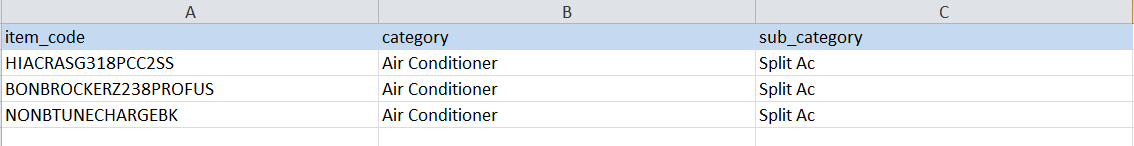
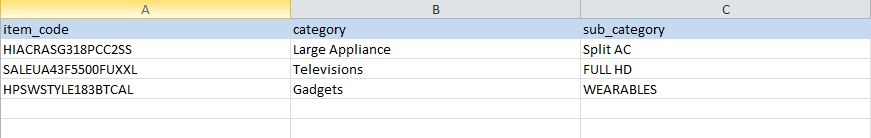
bulk_upload_change_and_update_data_withot_image

Changed region(s): [[0.0, 0.0, 1.0, 1.0]]

diff --git a/app/admin/components/product/bulk-upload.js b/app/admin/components/product/bulk-upload.js
@@ -16,6 +16,7 @@ export default function BulkUploadPage() {
   const [activeUploadType, setActiveUploadType] = useState(null);
   const [isFilterUploadLoading, setIsFilterUploadLoading] = useState(false);
   const [isBulkUploadLoading, setIsBulkUploadLoading] = useState(false);
+  const [isParticularDataBulkUploadLoading, setIsParticularDataBulkUploadLoading] = useState(false);
   const [isFilterGroupUploadLoading, setIsFilterGroupUploadLoading] = useState(false);
   const overviewFormRef = useRef(null);
   const filterValueFormRef = useRef(null);
@@ -37,6 +38,7 @@ export default function BulkUploadPage() {
 
   const notifiedRef = useRef(false);
 const fileInputRef = useRef(null);
+const fileBulkParticularInputRef = useRef(null);
   const showToast = (type, message) => {
     if (notifiedRef.current) return;
     notifiedRef.current = true;
@@ -62,6 +64,7 @@ const fileInputRef = useRef(null);
     setActiveUploadType(null);
     setIsFilterUploadLoading(false);
     setIsBulkUploadLoading(false);
+    setIsParticularDataBulkUploadLoading(false);
     setIsFilterGroupUploadLoading(false);
     setMessage("");
 
@@ -224,6 +227,55 @@ const fileInputRef = useRef(null);
   }
 };
 
+
+    //BULK UPDATION...
+  const handleBulkParticularDetailsSubcatSubmit = async (e) => {
+  e.preventDefault();
+
+  if (!excelFile) {
+    showToast("error", "Please upload a file");
+    return;
+  }
+
+  const formData = new FormData();
+  formData.append("file", excelFile); // ✅ MUST BE "file"
+
+  setIsParticularDataBulkUploadLoading(true);
+
+  try {
+    const res = await fetch("/api/categories/particularDataBulkupload", {
+      method: "POST",
+      body: formData,
+    });
+
+    const data = await res.json();
+
+    if (res.ok) {
+      showToast(
+        "success",
+        `Updated: ${data.updated}, Skipped: ${data.skipped}`
+      );
+
+      // ✅ RESET STATE
+        setExcelFile(null);
+
+        // ✅ RESET INPUT UI (VERY IMPORTANT)
+        if (fileBulkParticularInputRef.current) {
+          fileBulkParticularInputRef.current.value = "";
+        }
+
+    } else {
+      showToast("error", data.message || "Upload failed");
+    }
+
+    setExcelFile(null);
+  } catch (err) {
+    console.error(err);
+    showToast("error", "Upload failed");
+  } finally {
+    setIsParticularDataBulkUploadLoading(false);
+  }
+};
   const validateFile = (file, allowedExtensions) => {
     if (!file) return false;
     const fileName = file.name.toLowerCase();
@@ -343,6 +395,15 @@ const fileInputRef = useRef(null);
     const link = document.createElement("a");
     link.href = `/uploads/files/sample_category_Bulk_upload.xlsx?t=${Date.now()}`;
     link.download = "item_code_category_bulk_upload.xlsx";
+    document.body.appendChild(link);
+    link.click();
+    document.body.removeChild(link);
+  };
+
+  const handleParticularDataBulkUploadDownload = () => {
+    const link = document.createElement("a");
+    link.href = `/uploads/files/sample_item_code_particular_data.xlsx?t=${Date.now()}`;
+    link.download = "item_particular_bulk_upload_part_one_without_image.xlsx";
     document.body.appendChild(link);
     link.click();
     document.body.removeChild(link);
@@ -1046,6 +1107,10 @@ const fileInputRef = useRef(null);
 
     { id: "section-category-filter-upload-item-category-subcategory", label: "Item Code Category Bulk Upload", image: "/uploads/files/Category_bulk_upload_bulk_category_image_New.png" },
 
+    { id: "item-category-particular-product-bulk-upload", label: "Item Particular Bulk Upload part one (without image)", image: "/uploads/files/item_category_particular_bulk_upload.png" },
+
+    // { id: "item_code_image_bulk_upload", label: "Item Code Image Bulk Upload", image: "/uploads/files/item_code_image_bulk_upload.png" },
+
     { id: "section-new-category-upload", label: "New Category Upload", image: "/uploads/files/New_Category_bulk_upload_seventh_image.png" },
     // { id: "section-product-categories-upload", label: "Update Product Categories",     image: "/uploads/files/Product_updating_category_eighth_image.png" },
     { id: "section-product-brands-upload", label: "Update Product Brands", image: "/uploads/files/Product_Brand_update_nineth_image.png" },
@@ -1519,6 +1584,66 @@ const fileInputRef = useRef(null);
                 </div>
               </form>
             )}
+
+            {/* Section 13: Category Filter Upload Item code With Particular Details */}
+            {selectedSection === "item-category-particular-product-bulk-upload" && (
+              <form id="item-category-particular-product-bulk-upload" onSubmit={handleUpload} className="bg-white rounded-xl shadow-lg overflow-hidden p-6 space-y-8">
+                <div className="border border-gray-200 rounded-lg p-6 hover:border-blue-500 transition-colors">
+                  <div className="mb-4">
+                    <h2 className="text-md font-semibold text-blue-600 mb-6 border-b pb-2">
+                      Item Particular Bulk Upload part one (without image)
+                    </h2>
+                    <h3 className="text-lg font-semibold text-gray-900 flex items-center gap-2">
+                      <svg className="w-5 h-5 text-blue-500" fill="none" stroke="currentColor" viewBox="0 0 24 24">
+                        <path strokeLinecap="round" strokeLinejoin="round" strokeWidth={2} d="M9 12h6m-6 4h6m2 5H7a2 2 0 01-2-2V5a2 2 0 012-2h5.586a1 1 0 01.707.293l5.414 5.414a1 1 0 01.293.707V19a2 2 0 01-2 2z" />
+                      </svg>
+                      Excel/CSV File
+                    </h3>
+                    <p className="text-sm text-gray-500 mt-1">Upload your Particular Bulk Upload Part One Data</p>
+                  </div>
+                  <div className="space-y-4">
+                   <input
+                      type="file"
+                      accept=".xlsx,.csv"
+                      ref={fileBulkParticularInputRef}
+                      onChange={(e) => setExcelFile(e.target.files?.[0] || null)}
+                      className="block w-full text-sm text-gray-500 file:mr-4 file:py-2 file:px-4 file:rounded-lg file:border-0 file:text-sm file:font-semibold file:bg-blue-50 file:text-blue-700 hover:file:bg-red-100"
+                      required
+                    />
+                    <button
+                      type="button"
+                      onClick={handleParticularDataBulkUploadDownload}
+                      className="inline-flex items-center text-sm text-blue-600 hover:text-blue-800 transition-colors"
+                    >
+                      <svg className="w-4 h-4 mr-2" fill="none" stroke="currentColor" viewBox="0 0 24 24">
+                        <path strokeLinecap="round" strokeLinejoin="round" strokeWidth={2} d="M4 16v1a3 3 0 003 3h10a3 3 0 003-3v-1m-4-4l-4 4m0 0l-4-4m4 4V4" />
+                      </svg>
+                      Download Sample Format
+                    </button>
+                  </div>
+                  <div className="flex mt-5 justify-between">
+                    <button
+                      onClick={handleBulkParticularDetailsSubcatSubmit}
+                        disabled={isParticularDataBulkUploadLoading}
+                      className="px-6 py-2.5 bg-blue-600 text-white font-medium rounded-lg hover:bg-blue-700 focus:outline-none disabled:opacity-50 transition-colors flex items-center"
+                    >
+                      {isParticularDataBulkUploadLoading ? (
+                        <>
+                          <svg className="animate-spin -ml-1 mr-3 h-5 w-5 text-white" xmlns="http://www.w3.org/2000/svg" fill="none" viewBox="0 0 24 24">
+                            <circle className="opacity-25" cx="12" cy="12" r="10" stroke="currentColor" strokeWidth="4"></circle>
+                            <path className="opacity-75" fill="currentColor" d="M4 12a8 8 0 018-8V0C5.373 0 0 5.373 0 12h4zm2 5.291A7.962 7.962 0 014 12H0c0 3.042 1.135 5.824 3 7.938l3-2.647z"></path>
+                          </svg>
+                          Uploading...
+                        </>
+                      ) : (
+                        'Particular Bulk Upload One'
+                      )}
+                    </button>
+                  </div>
+                </div>
+              </form>
+            )}
+
 
             {/* Section 7: New Category Upload */}
             {selectedSection === "section-new-category-upload" && (

diff --git a/app/api/categories/particularDataBulkupload/route.js b/app/api/categories/particularDataBulkupload/route.js
@@ -1,0 +1,186 @@
+import { NextResponse } from "next/server";
+import dbConnect from "@/lib/db";
+import * as XLSX from "xlsx";
+
+import Product from "@/models/product";
+import Category from "@/models/ecom_category_info";
+import Brand from "@/models/ecom_brand_info";
+
+export async function POST(req) {
+  try {
+    await dbConnect();
+
+    const formData = await req.formData();
+    const file = formData.get("file");
+
+    if (!file) {
+      return NextResponse.json(
+        { success: false, message: "No file uploaded" },
+        { status: 400 }
+      );
+    }
+
+    const buffer = Buffer.from(await file.arrayBuffer());
+    const workbook = XLSX.read(buffer, { type: "buffer" });
+    const sheet = workbook.Sheets[workbook.SheetNames[0]];
+    const rows = XLSX.utils.sheet_to_json(sheet);
+
+    let updated = 0;
+    let skipped = 0;
+
+    /* ---------- HELPERS ---------- */
+    const normalize = (val) =>
+      val?.toString().trim().replace(/\s+/g, " ");
+
+    const escapeRegex = (str) =>
+      str.replace(/[.*+?^${}()|[\]\\]/g, "\\$&");
+
+    /* ---------- LOOP ---------- */
+    for (const row of rows) {
+      const itemCode = normalize(
+        row["Item No."] ||
+        row["Item No"] ||
+        row["ITEM NO."] ||
+        row["Item Code"] ||
+        row["item_code"]
+      );
+
+      const childName = normalize(row["Subcategory"]);
+      const productName = normalize(row["Product Name"]);
+      const size = normalize(row["Size"]);
+      const brand = normalize(row["Brand"]);
+      const star = normalize(row["Star"]);
+      const description = normalize(row["Description"]);
+      const keyFeatures = normalize(row["Key Features"]);
+
+      if (!itemCode || !childName) {
+        skipped++;
+        continue;
+      }
+
+      console.log("➡ Processing:", itemCode, childName);
+
+      /* ---------- FIND PRODUCT ---------- */
+      const product = await Product.findOne({ item_code: itemCode });
+
+      if (!product) {
+        console.log("❌ Product not found:", itemCode);
+        skipped++;
+        continue;
+      }
+
+      /* ---------- FIND CATEGORY ---------- */
+      const childCategory = await Category.findOne({
+        category_name: {
+          $regex: `^${escapeRegex(childName)}$`,
+          $options: "i",
+        },
+      });
+
+      if (!childCategory) {
+        console.log("❌ Child category not found:", childName);
+        skipped++;
+        continue;
+      }
+
+      const subCategory = await Category.findById(childCategory.parentid);
+      if (!subCategory) {
+        console.log("❌ Subcategory missing");
+        skipped++;
+        continue;
+      }
+
+      const mainCategory = await Category.findById(subCategory.parentid);
+      if (!mainCategory) {
+        console.log("❌ Main category missing");
+        skipped++;
+        continue;
+      }
+
+      /* ---------- BUILD CATEGORY CHAINS ---------- */
+      const subCategoryNew = [
+        mainCategory.md5_cat_name,
+        subCategory.md5_cat_name,
+        childCategory.md5_cat_name,
+      ].join("##");
+
+      const subCategoryNameFull = [
+        mainCategory.category_name,
+        subCategory.category_name,
+        childCategory.category_name,
+      ].join("##");
+
+      /* ---------- KEY FEATURES ---------- */
+      const keySpecsArray = keyFeatures
+        ? keyFeatures.split(",").map((x) => x.trim())
+        : [];
+
+
+        let brandId = null;
+
+if (brand) {
+  const brandDoc = await Brand.findOne({
+    brand_name: {
+      $regex: `^${escapeRegex(brand)}$`,
+      $options: "i",
+    },
+  });
+
+  if (!brandDoc) {
+    console.log("❌ Brand not found:", brand);
+  } else {
+    brandId = brandDoc._id;
+  }
+}
+
+      /* ---------- UPDATE DATA ---------- */
+      const updateData = {
+        category_new: mainCategory.md5_cat_name,
+        sub_category_new: subCategoryNew,
+        sub_category_new_name: subCategoryNameFull,
+        sub_category: childCategory._id,
+      };
+
+      if (brandId) {
+        updateData.brand = brandId; // 👈 IMPORTANT
+      }
+
+      console.log(updateData);
+
+      if (productName) updateData.name = productName;
+      // if (brand) updateData.brand = brand;
+      if (size) updateData.size = size;
+      if (star) updateData.star = star;
+      if (description) updateData.description = description;
+      if (keySpecsArray.length > 0) {
+        updateData.key_specifications = keySpecsArray;
+      }
+
+      /* ---------- UPDATE ---------- */
+      const result = await Product.updateOne(
+        { item_code: itemCode },
+        { $set: updateData }
+      );
+
+      if (result.matchedCount > 0) {
+        updated++;
+      } else {
+        skipped++;
+      }
+    }
+
+    return NextResponse.json({
+      success: true,
+      total: rows.length,
+      updated,
+      skipped,
+    });
+
+  } catch (error) {
+    console.error("❌ Upload error:", error);
+    return NextResponse.json(
+      { success: false, message: "Server error" },
+      { status: 500 }
+    );
+  }
+}

diff --git a/app/api/categories/bulkuploadcatsub/route.js b/app/api/categories/bulkuploadcatsub/route.js
@@ -111,7 +111,7 @@ if (!isSubMatch && !isMainMatch) {
   ].join("##");
 
   /* ---------- UPDATE ---------- */
-  await Product.updateOne(
+  await Product.updateMany(
     { _id: product._id },
     {
       category_new: mainCategory.md5_cat_name,     // ✅ MAIN
